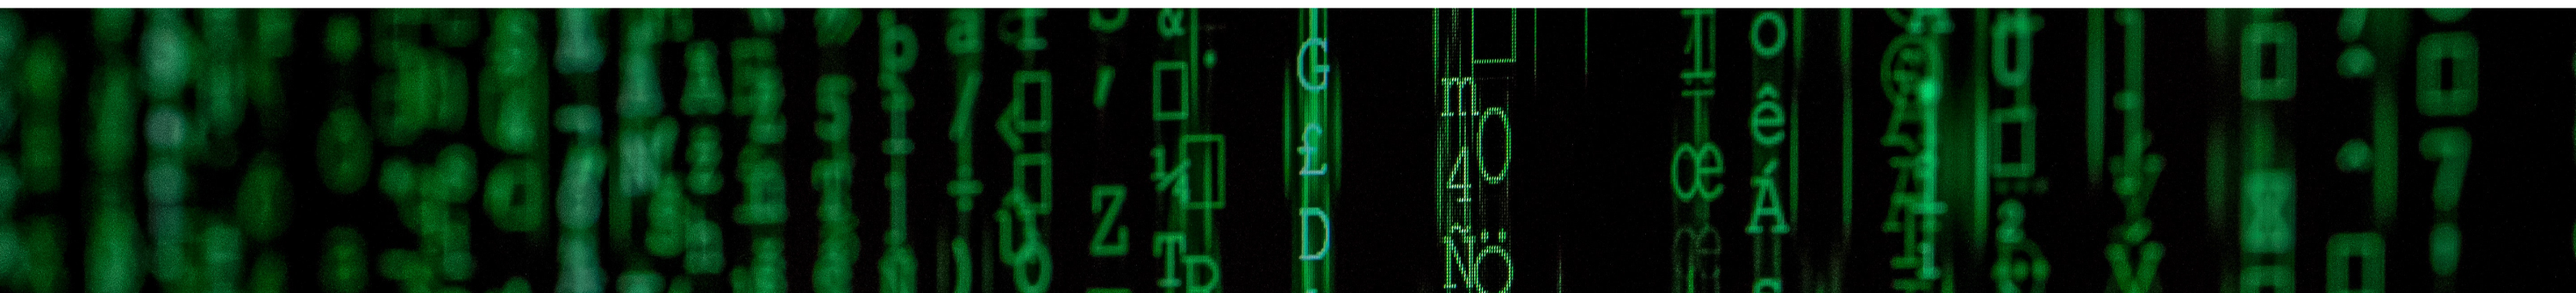
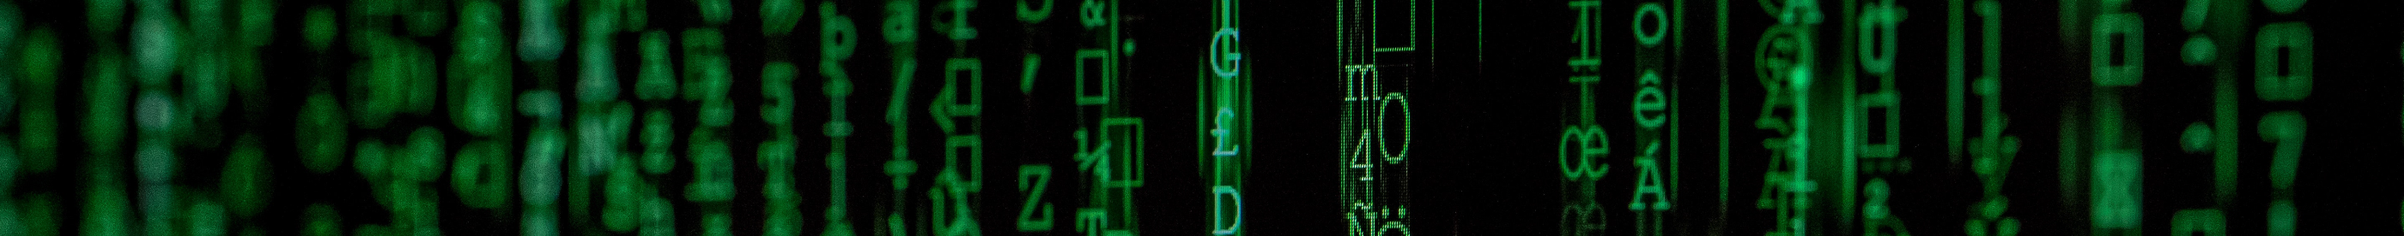
commit

diff --git a/index.html b/index.html
@@ -9,7 +9,7 @@
 </head>
     
     <figure>
-        <img src="images/code-black-background.png" width="3000" height="342" alt="" />
+        <img src="images/code-black-background.png" width="2800" height="276" alt="" />
     </figure>
 
 <body>
